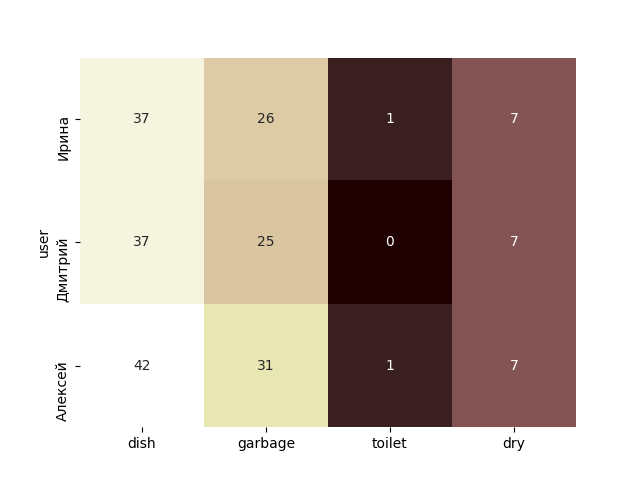
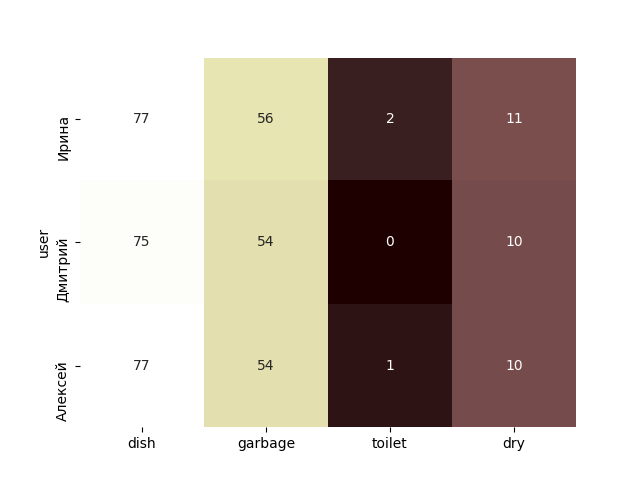
new file:   cron_alert.py 	modified:   data.csv 	modified:   images/heat_map.png

diff --git a/cron_alert.py b/cron_alert.py
@@ -1,0 +1,28 @@
+import requests
+from cleaner_bot_script import cleaner_bot_alert
+#import json
+
+# crontab rule
+# 0 13 * * * python3 /home/dvasilev/projects/telegram_bots/cleaner_bot/cron_alert.py
+
+chat_id = -37549110
+SCRIPT_PATH     = '/home/dvasilev/projects/telegram_bots/cleaner_bot/'
+with open(SCRIPT_PATH+'token.key','r') as file:
+    token=file.read().replace('\n', '')
+    file.close()
+
+message_text = cleaner_bot_alert(SCRIPT_PATH,'dish')
+
+def send_message(token, chat_id, message_text):
+    # proxy = {'https': 'socks5h://user:password@IP:1080'}
+    URL = 'https://api.telegram.org/bot' + token + '/sendMessage'
+    #reply_markup ={ "keyboard": [["Yes", "No"], ["Maybe"], ["1", "2", "3"]], "resize_keyboard": True}
+    #data = {'chat_id': chat_id, 'text': message_text, 'reply_markup': json.dumps(reply_markup)}
+    data = {'chat_id': chat_id, 'text': message_text}
+    # r = requests.post(URL, data=data, proxies=proxy)
+    r = requests.post(URL, data=data)
+    #print(r.json())
+
+send_message(token, chat_id, message_text)
+message_text = cleaner_bot_alert(SCRIPT_PATH,'garbage')
+send_message(token, chat_id, message_text)
